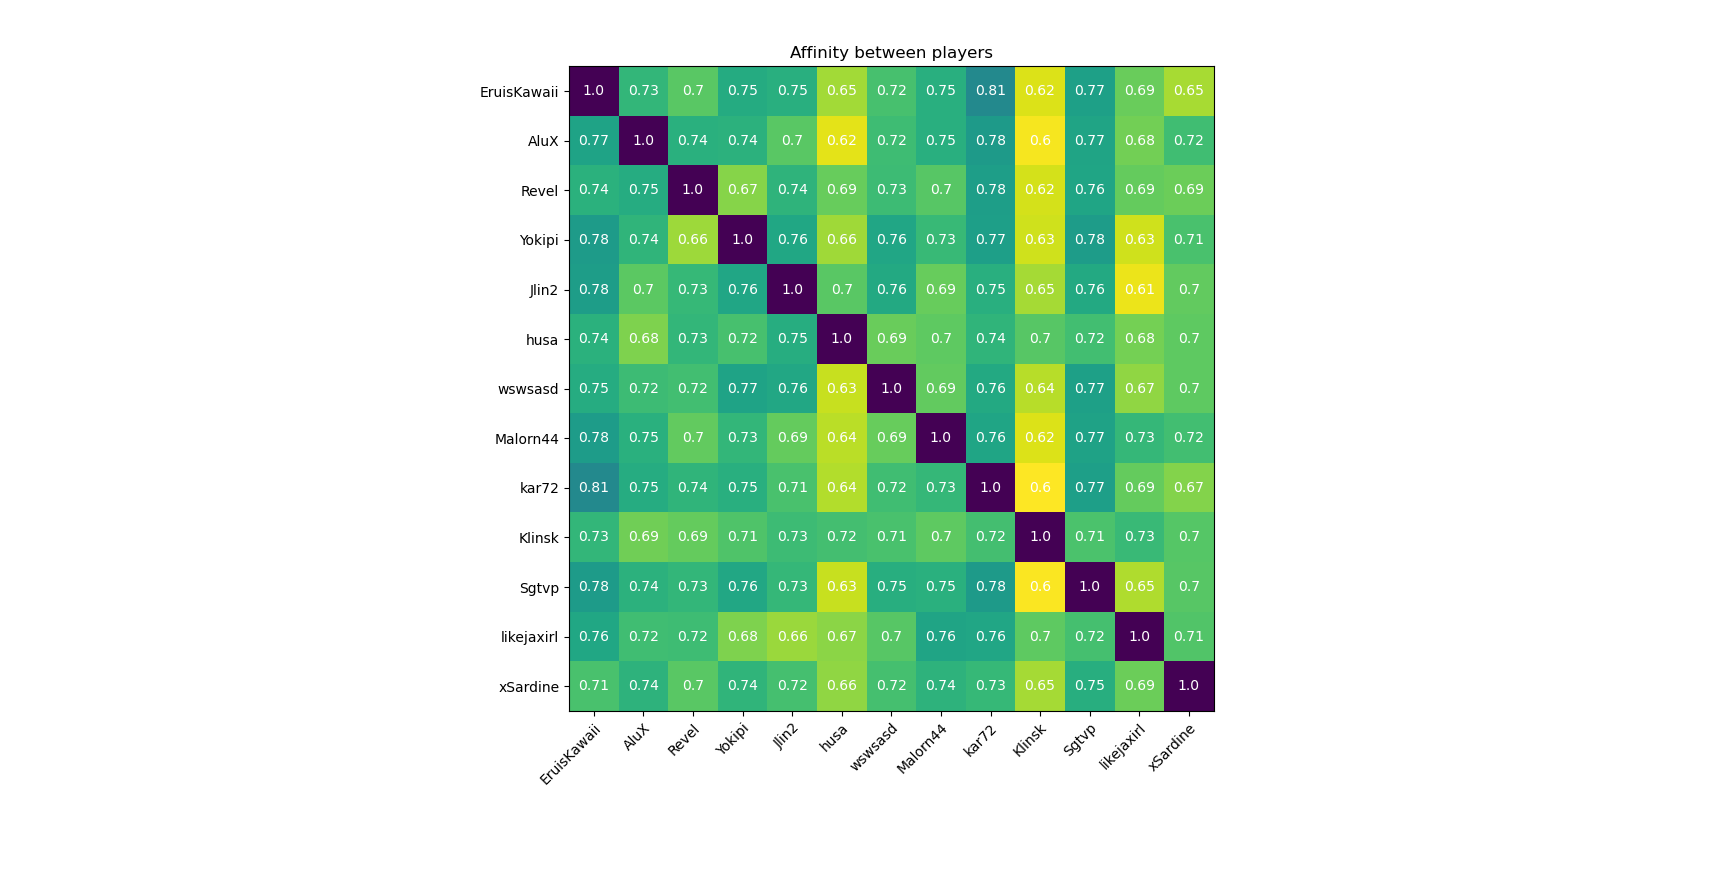
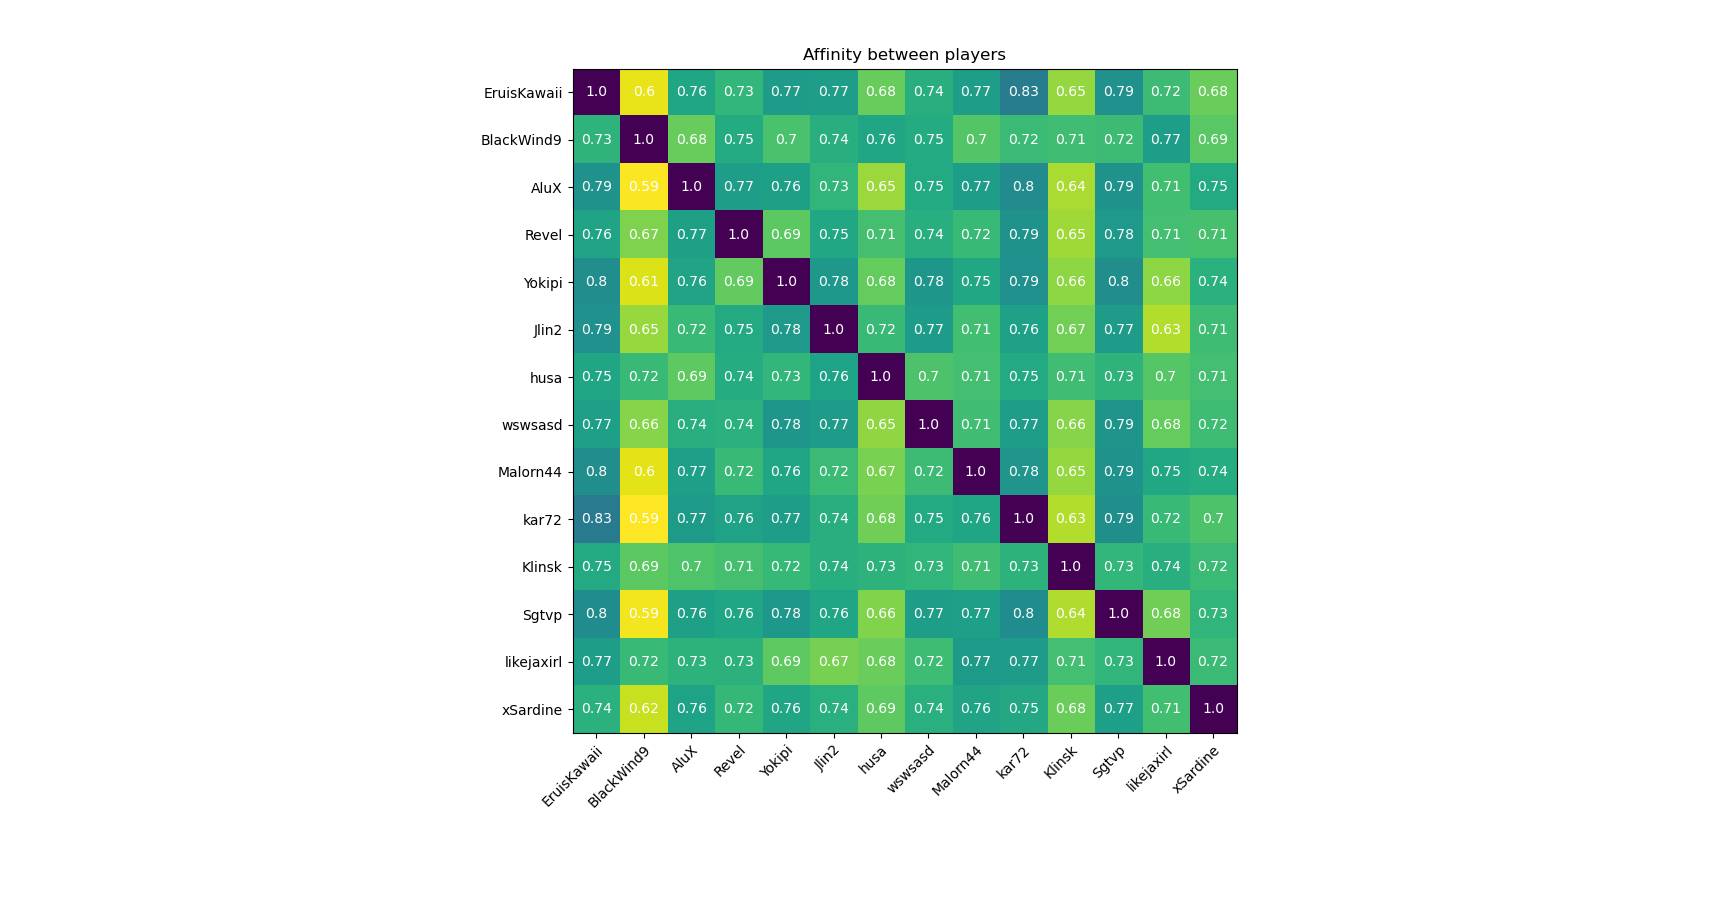
fix

Changed region(s): [[0.2785, 0.0308, 0.7116, 0.8928]]

diff --git a/TakarieStats/ProcessingTakarie.py b/TakarieStats/ProcessingTakarie.py
@@ -88,18 +88,19 @@ def plot_affinity(affinity, rankers):
     plt.show()
 
 def print_affinity(affinity, rankers):
-     for index, ranker in enumerate(affinity):
-        idx = np. argpartition(ranker, -4)[-4:]
-        indices = idx[np. argsort((-ranker)[idx])]
+    for index, ranker in enumerate(affinity):
+        idx = np.argpartition(-ranker, -5)[-5:]
+        indices = idx[np.argsort((ranker)[idx])]
         print(rankers[index])
         for indice in indices[1:]:
             print("BFF: " + rankers[indice])
         
-        idx = np.argpartition(-ranker, -4)[-4:]
-        indices = idx[np. argsort((-ranker)[idx])]
-        for indice in indices[1:]:
+        idx = np.argpartition(ranker, -4)[-4:]
+        indices = idx[np.argsort((-ranker)[idx])]
+        for indice in indices:
             print("Worst ennemy: " + rankers[indice])
         print()
+    print("\n\n")
 
 
 def process_cosine_affinity(dataframe, ignored_players=[]):
@@ -152,4 +153,4 @@ if __name__ == "__main__":
             process_tastes_rank(dataframe, ignored)
 
         process_cosine_affinity(dataframe, [])
-        process_rank_affinity(dataframe, ["BlackWind9"])
+        process_rank_affinity(dataframe, [])
